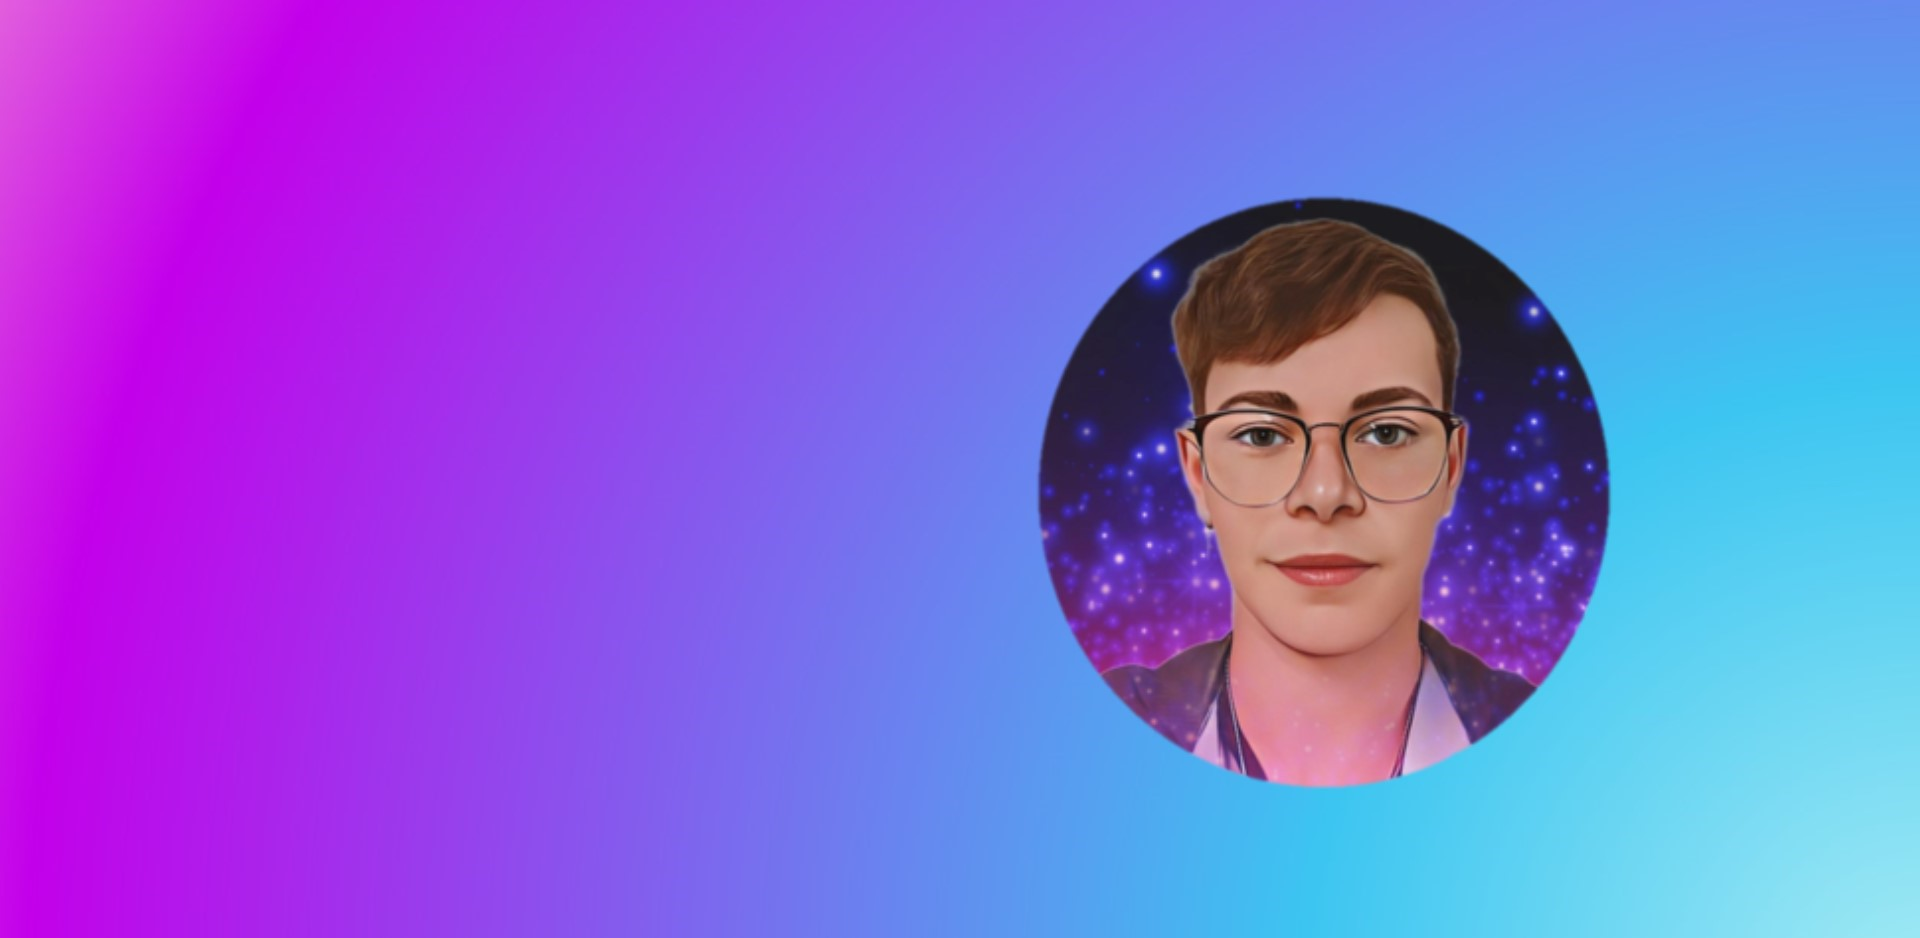
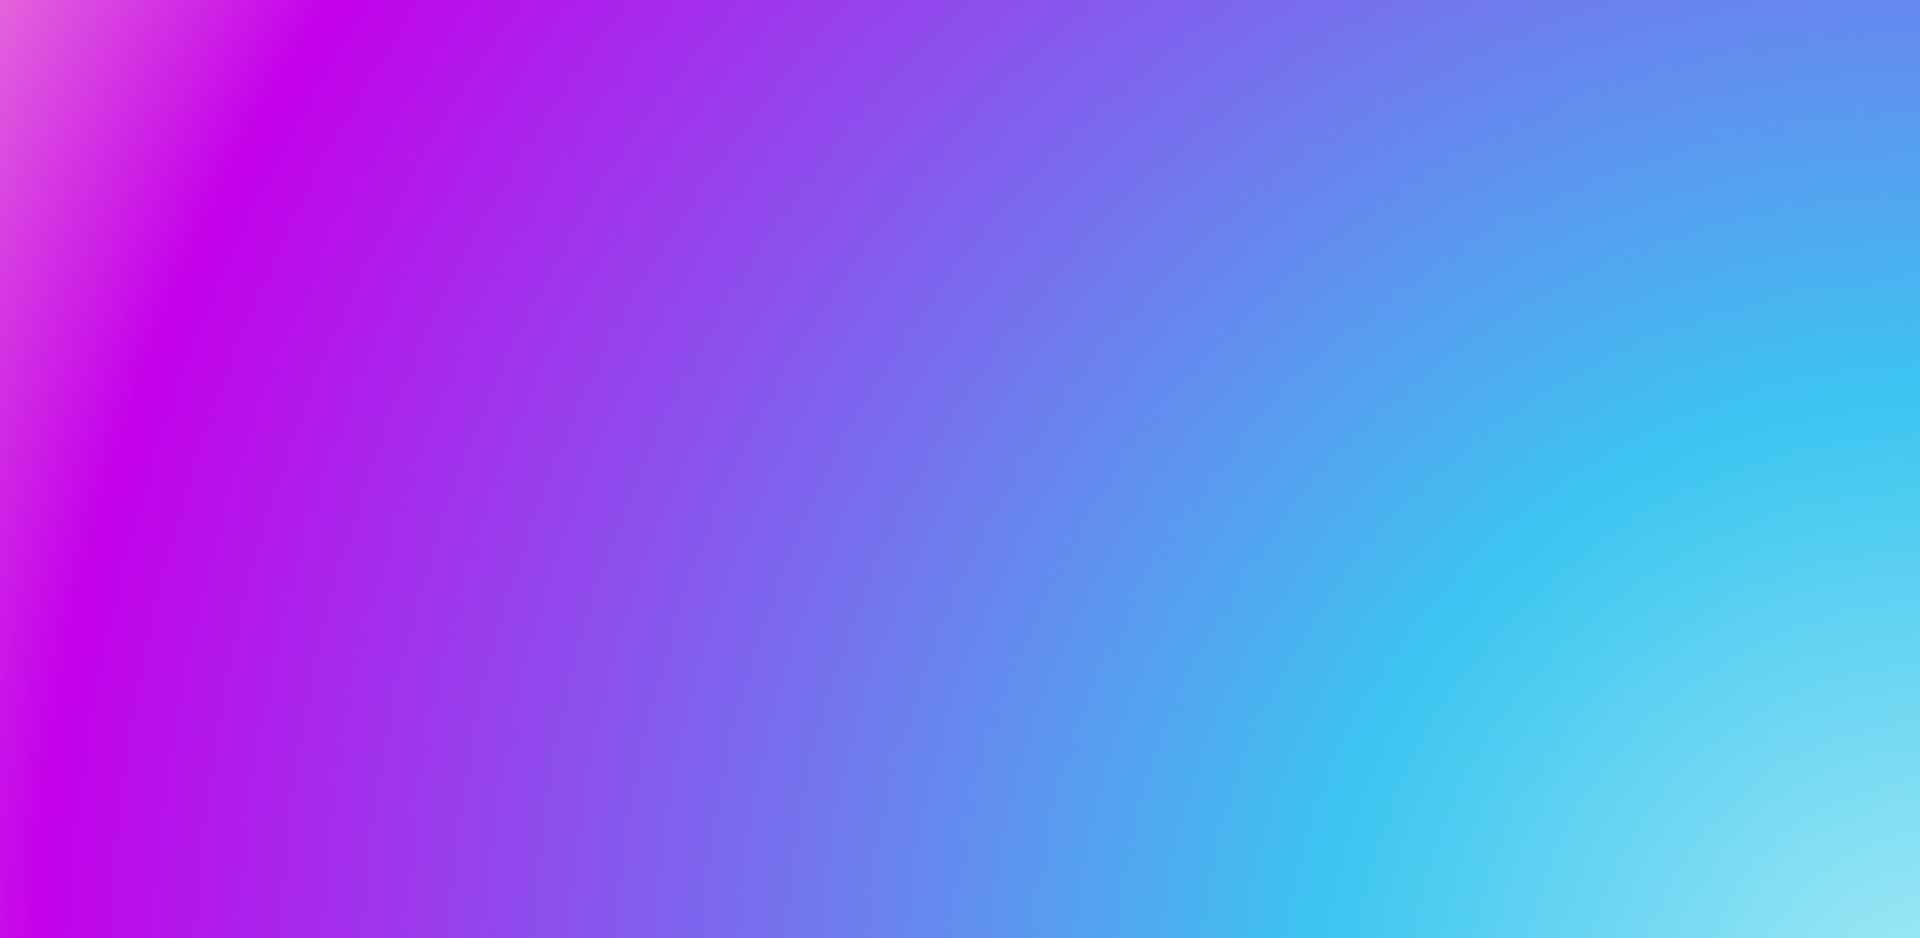
funções de links

Changed region(s): [[0.5312, 0.1855, 0.8438, 0.8657]]

diff --git a/Projeto para o YouTube/index.html b/Projeto para o YouTube/index.html
@@ -11,9 +11,10 @@
 <body>
 
     <div class="background">
+
         <header>
             <div class="logo">
-                <i class="fa-regular fa-e"></i>
+                <i class="fa-regular fa-"></i>
             </div><!--logo-->
 
             <div class="cabeçalho-link">
@@ -34,6 +35,12 @@
                 </li>
                 <button onclick="contato(); return false" >Meu Contato</button>
             </div><!--cabeçalho-link-->
+
+            <!--<div class="foto">
+                <img src="img/marcos.png"
+                width="1100px" height="600px"
+                ></div>-->
+
         </header>
 
         <div class="container-text">
@@ -42,15 +49,15 @@
                 <h1>Eu sou <span>Marcos Andrei</span></h1>
                 <p>Tenho 17 anos e atualmente estou no 2° ano do ensino médio<br>estou a procura de uma vaga de emprego na área de TI</p>
                 <div class="redes-social">
-                    <a href="#"><i class="fa-brands fa-facebook"></i></a>
-                    <a href="#"><i class="fa-brands fa-twitter"></i></a>
-                    <a href="#"><i class="fa-brands fa-instagram"></i></a>
-                    <a href="#"><i class="fa-brands fa-dribbble"></i></a>
-                    <a href="#"><i class="fa-brands fa-behance"></i></a>
+                    <a href="#"><i class="fa-brands fa-linkedin" onclick="linkedin(); return false"></i></a>
+                    <a href="#"><i class="fa-brands fa-twitter" onclick="twitter(); return false"></i></a>
+                    <a href="#"><i class="fa-brands fa-instagram" onclick="insta(); return false"></i></a>
+                    <a href="#"><i class="fa-brands fa-github" onclick="github(); return false"></i></a>
                 </div><!--redes-social-->
                 <button class="btn" onclick="logar(); return false" >Sobre Mim</button>
             </div><!--text-->
         </div><!--container-text-->
+
     </div><!--background-->
 
 
@@ -64,6 +71,22 @@
 
         function contato(){
             location.href = "contato.html"
+        }
+
+        function insta(){
+            location.href = "https://instagram.com/marcos.a897?igshid=ZDdkNTZiNTM="
+        }
+
+        function github(){
+            location.href = "https://github.com/MarcosAlmeida17"
+        }
+
+        function linkedin(){
+            location.href = "https://www.linkedin.com/in/marcos-andrei-0190a2266/"
+        }
+
+        function twitter(){
+            location.href = "https://twitter.com/MarcosAndrei897"
         }
 
     </script>

diff --git a/Projeto para o YouTube/style.css b/Projeto para o YouTube/style.css
@@ -13,8 +13,6 @@ body{
     overflow: hidden;
 }
 
-
-
 .background{
     background: linear-gradient(rgba(0, 0, 0, 0.5), rgba(0, 0, 0, 0.5)),url(./img/background.jpg);
     background-size: cover;
@@ -56,7 +54,7 @@ header{
     height: 40px;
     width: 40px;
     background: transparent;
-    border: 1px solid #c10eee;
+    border: 1px solid #04ddfa00;
     color: #c10eee;
     border-radius: 50%;
     display: inline-flex;
